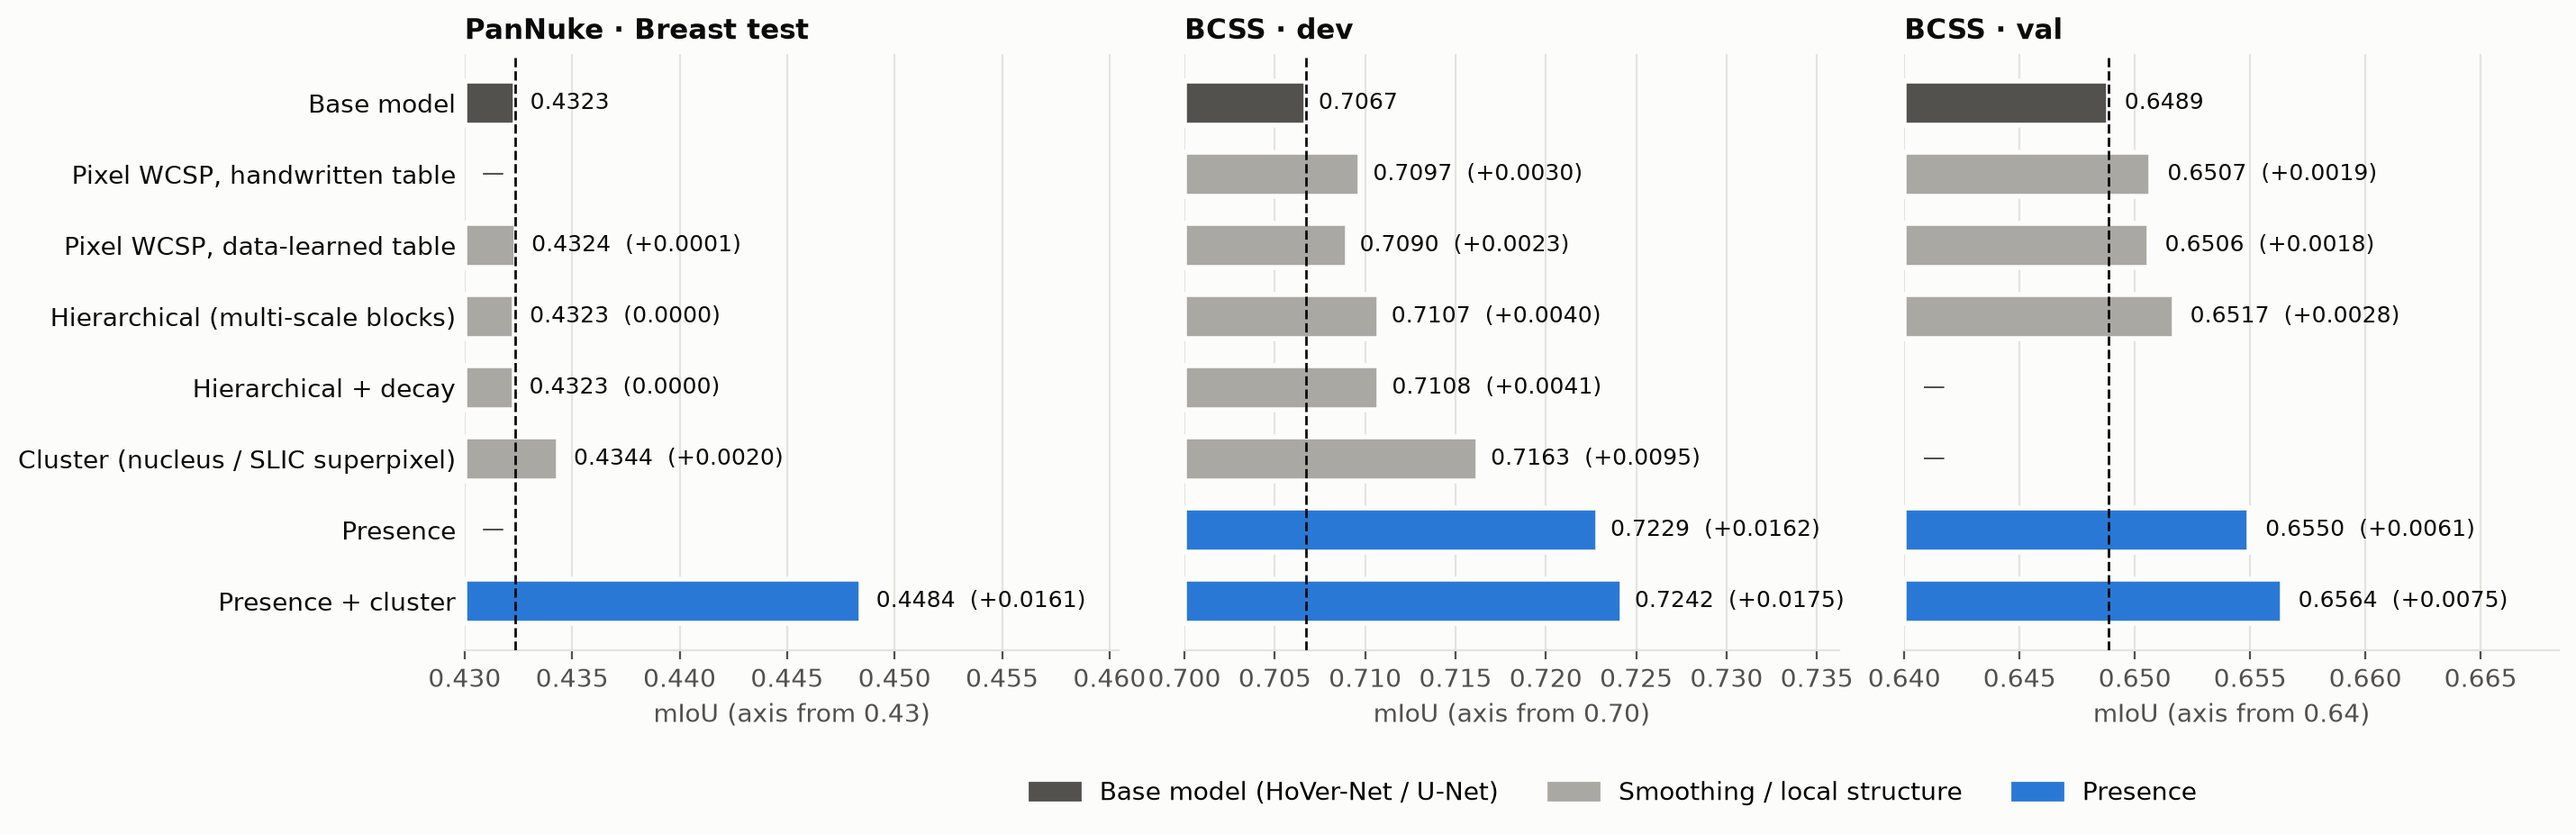
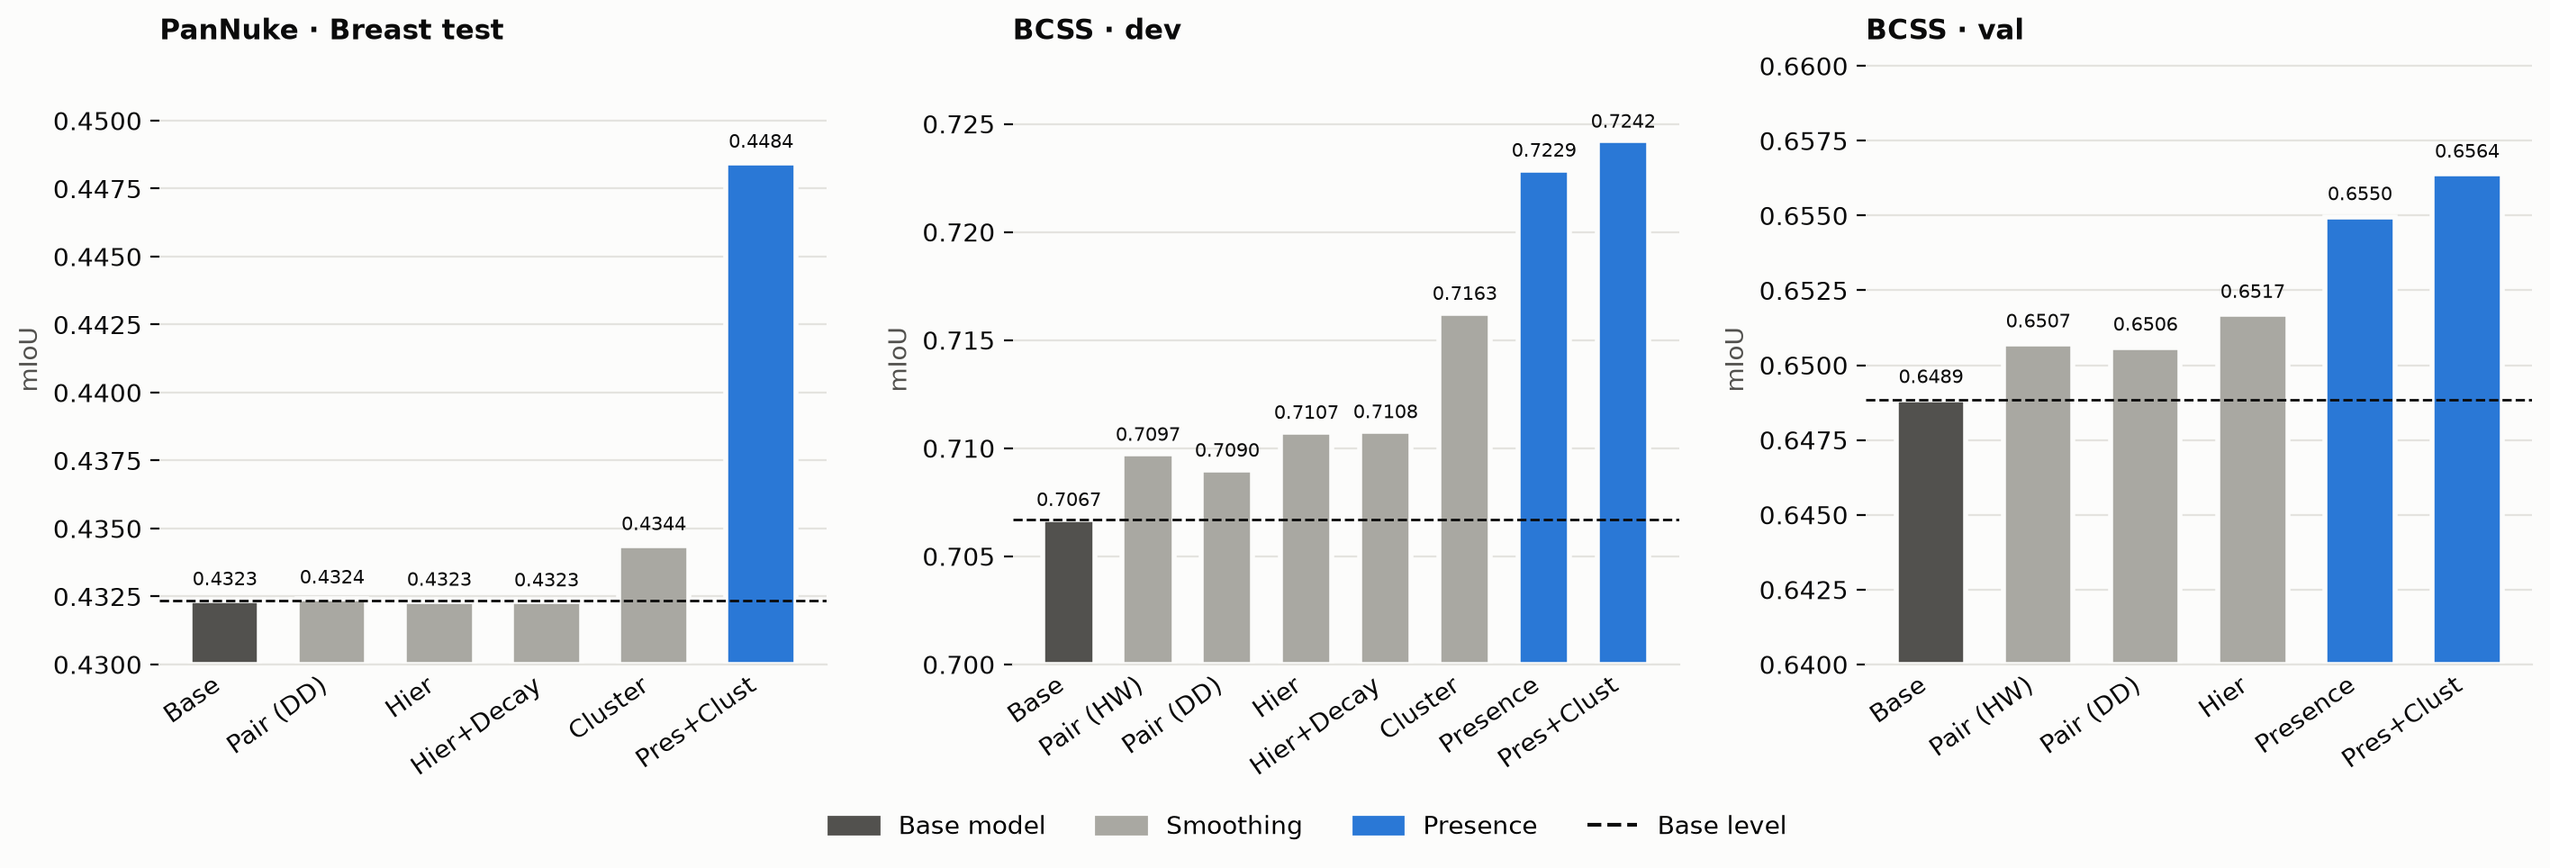
Deliverable 7: GitHub Pages version (docs/deliverable7), three-panel recap chart, short method names
Claude-Session: https://claude.ai/code/session_01CTh5Qud5ucWXzk6pK8w2Lo

diff --git a/docs/deliverable7/index.html b/docs/deliverable7/index.html
@@ -1,0 +1,117 @@
+<!DOCTYPE html>
+<html lang="en">
+<head>
+<meta charset="utf-8">
+<meta name="viewport" content="width=device-width, initial-scale=1">
+<title>Deliverable 7 · Histopathology WCSP</title>
+<style>
+  :root { --ink:#0b0b0b; --muted:#52514e; --line:#e4e3df; --bg:#fcfcfb; --accent:#2a78d6; --soft:#f3f2ee; }
+  * { box-sizing: border-box; }
+  body { margin:0; background:var(--bg); color:var(--ink);
+         font:16px/1.55 -apple-system, BlinkMacSystemFont, "Segoe UI", Helvetica, Arial, sans-serif; }
+  main { max-width: 980px; margin: 0 auto; padding: 48px 24px 80px; }
+  header { border-bottom: 1px solid var(--line); padding-bottom: 20px; margin-bottom: 8px; }
+  h1 { font-size: 34px; margin: 0 0 6px; letter-spacing: -0.01em; }
+  .sub { color: var(--muted); margin: 0; }
+  h2 { font-size: 22px; margin: 48px 0 12px; padding-top: 8px; }
+  p { margin: 10px 0; }
+  .note { color: var(--muted); font-size: 14px; }
+  .take { background: var(--soft); border-left: 3px solid var(--accent); padding: 12px 16px; border-radius: 4px; margin: 16px 0; }
+  table { border-collapse: collapse; width: 100%; margin: 14px 0; font-size: 15px; }
+  th, td { padding: 8px 12px; border-bottom: 1px solid var(--line); text-align: left; }
+  th { font-weight: 600; color: var(--muted); font-size: 13px; text-transform: uppercase; letter-spacing: .03em; }
+  td.num, th.num { text-align: right; font-variant-numeric: tabular-nums; white-space: nowrap; }
+  tr.hl td { font-weight: 600; }
+  .d { color: var(--muted); font-weight: 400; }
+  .dash { color: #a9a8a2; }
+  img { width: 100%; height: auto; margin: 12px 0; border: 1px solid var(--line); border-radius: 6px; background: #fff; }
+  .abbr { display: flex; flex-wrap: wrap; gap: 6px 18px; font-size: 14px; color: var(--muted); margin: 8px 0 0; }
+  .abbr b { color: var(--ink); }
+  nav { display: flex; gap: 18px; font-size: 14px; margin-top: 14px; }
+  nav a { color: var(--accent); text-decoration: none; }
+</style>
+</head>
+<body>
+<main>
+
+<header>
+  <h1>Deliverable 7</h1>
+  <p class="sub">November 23, 2026 · PanNuke (cell nuclei) and BCSS (tissue regions)</p>
+  <nav><a href="#recap">Recap</a><a href="#hypothesis">Hypothesis</a><a href="#prelim">Preliminary tests</a><a href="#current">Current experiments</a></nav>
+</header>
+
+<section id="recap">
+<h2>Recap of results</h2>
+<p class="note">mIoU, change vs. the base model in brackets. <span class="dash">—</span> = not run (yet).</p>
+
+<table>
+  <tr><th>Method</th><th class="num">PanNuke · Breast test</th><th class="num">BCSS · dev</th><th class="num">BCSS · val</th></tr>
+  <tr><td>Base</td><td class="num">0.4323</td><td class="num">0.7067</td><td class="num">0.6489</td></tr>
+  <tr><td>Pair (HW)</td><td class="num dash">—</td><td class="num">0.7097 <span class="d">(+0.0030)</span></td><td class="num">0.6507 <span class="d">(+0.0019)</span></td></tr>
+  <tr><td>Pair (DD)</td><td class="num">0.4324 <span class="d">(+0.0001)</span></td><td class="num">0.7090 <span class="d">(+0.0023)</span></td><td class="num">0.6506 <span class="d">(+0.0018)</span></td></tr>
+  <tr><td>Hier</td><td class="num">0.4323 <span class="d">(0.0000)</span></td><td class="num">0.7107 <span class="d">(+0.0040)</span></td><td class="num">0.6517 <span class="d">(+0.0028)</span></td></tr>
+  <tr><td>Hier+Decay</td><td class="num">0.4323 <span class="d">(0.0000)</span></td><td class="num">0.7108 <span class="d">(+0.0041)</span></td><td class="num dash">running</td></tr>
+  <tr><td>Cluster</td><td class="num">0.4344 <span class="d">(+0.0020)</span></td><td class="num">0.7163 <span class="d">(+0.0095)</span></td><td class="num dash">running</td></tr>
+  <tr class="hl"><td>Presence</td><td class="num dash">—</td><td class="num">0.7229 <span class="d">(+0.0162)</span></td><td class="num">0.6550 <span class="d">(+0.0061)</span></td></tr>
+  <tr class="hl"><td>Pres+Clust</td><td class="num">0.4484 <span class="d">(+0.0161)</span></td><td class="num">0.7242 <span class="d">(+0.0175)</span></td><td class="num">0.6564 <span class="d">(+0.0075)</span></td></tr>
+</table>
+
+<div class="abbr">
+  <span><b>Base</b> HoVer-Net / U-Net</span>
+  <span><b>Pair (HW / DD)</b> pixel WCSP, handwritten / data-derived table</span>
+  <span><b>Hier</b> multi-scale blocks</span>
+  <span><b>Hier+Decay</b> with level decay</span>
+  <span><b>Cluster</b> one label per nucleus (PanNuke) or SLIC superpixel (BCSS)</span>
+  <span><b>Presence</b> drop classes that shouldn't be in the tile</span>
+  <span><b>Pres+Clust</b> both</span>
+</div>
+
+<img src="gains_both_datasets.png" alt="mIoU per method on PanNuke Breast test, BCSS dev and BCSS val">
+
+<div class="take"><b>Takeaway:</b> smoothing (Pair, Hier, Decay) barely moves either dataset. Presence, which removes classes that shouldn't be in a tile, is the only clear gain on both.</div>
+<p class="note">Sources: PanNuke <code>experiments/pannuke_wcsp/organ_wcsp/breast/evaluation.json</code> (branch <code>organ-wcsp-breast</code>, Nov 22); BCSS run summaries (λ = 8).</p>
+</section>
+
+<section id="hypothesis">
+<h2>Hypothesis</h2>
+<p>The segmenter makes two kinds of mistakes, and smoothing fixes neither.</p>
+<table>
+  <tr><th>Mistake</th><th>Example</th><th>What would fix it</th></tr>
+  <tr><td><b>Grouping</b></td><td>One stroma region is predicted as ~10 scattered pieces</td><td>Coherent regions</td></tr>
+  <tr><td><b>Labeling</b></td><td>A whole region is called "other" when it's stroma</td><td>Knowing which classes belong in the tile</td></tr>
+</table>
+</section>
+
+<section id="prelim">
+<h2>Preliminary tests</h2>
+<p class="note">Ryan's full-resolution U-Net · 185 dev tiles · no training.</p>
+<table>
+  <tr><th>Test</th><th class="num">Result</th></tr>
+  <tr><td>Wrong pixels that are <b>grouping</b> mistakes</td><td class="num"><b>48%</b></td></tr>
+  <tr><td>Wrong pixels that are <b>labeling</b> mistakes</td><td class="num"><b>52%</b></td></tr>
+  <tr><td>Predicted pieces per true region</td><td class="num"><b>~10</b> <span class="d">(should be 1)</span></td></tr>
+  <tr><td>Presence + smoothing on this model</td><td class="num">0.6524 → <b>0.6610</b> <span class="d">(+0.0086)</span></td></tr>
+  <tr><td>Upper bound: true classes given per tile</td><td class="num dash">running</td></tr>
+  <tr><td>Upper bound: every true region coherent</td><td class="num dash">running</td></tr>
+</table>
+
+<img src="prelim_error_split.png" alt="Wrong pixels per class, split into grouping and labeling errors">
+
+<div class="take"><b>Worst classes:</b> "other" (36% wrong) and stroma (25%), both mostly <b>labeling</b> mistakes. Inflammatory and necrosis errors are mostly <b>grouping</b>.</div>
+</section>
+
+<section id="current">
+<h2>Current experiments: fixing the U-Net itself</h2>
+<p>Same training as Ryan's model; only the loss changes. Score = raw U-Net, no post-processing.</p>
+<table>
+  <tr><th>Model</th><th>Added loss</th><th>Fixes</th><th class="num">Dev mIoU</th></tr>
+  <tr><td>A (Ryan)</td><td>none</td><td class="dash">—</td><td class="num">0.6679</td></tr>
+  <tr><td>B</td><td>Region loss: pixels in the same true region should agree</td><td>Grouping</td><td class="num dash">—</td></tr>
+  <tr><td>C</td><td>Presence loss: predict which classes are in the tile</td><td>Labeling</td><td class="num dash">—</td></tr>
+</table>
+<div class="take"><b>Success</b> = B or C beats A.</div>
+</section>
+
+</main>
+</body>
+</html>

diff --git a/deliverables/figures_20261123/make_figures.py b/deliverables/figures_20261123/make_figures.py
@@ -24,54 +24,49 @@ plt.rcParams.update({
 # One row per method family, same rows for both datasets (None = not run).
 # PanNuke: organ_wcsp/breast/evaluation.json (branch organ-wcsp-breast), Breast test, 169 patches.
 # BCSS: runs/*/dev/summary.csv, dev, 185 tiles (lambda = 8): the only split with every family.
-FAMILIES = [  # (label, PanNuke Breast test, BCSS dev, BCSS val, is presence); None = not run yet
-    ("Base model", 0.432348, 0.706720, 0.648852, None),
-    ("Pixel WCSP, handwritten table", None, 0.709734, 0.650712, False),
-    ("Pixel WCSP, data-learned table", 0.432412, 0.708998, 0.650602, False),
-    ("Hierarchical (multi-scale blocks)", 0.432328, 0.710750, 0.651698, False),
-    ("Hierarchical + decay", 0.432305, 0.710783, None, False),
-    ("Cluster (nucleus / SLIC superpixel)", 0.434374, 0.716253, None, False),
+FAMILIES = [  # (short name, PanNuke Breast test, BCSS dev, BCSS val, is presence); None = not run yet
+    ("Base", 0.432348, 0.706720, 0.648852, None),
+    ("Pair (HW)", None, 0.709734, 0.650712, False),
+    ("Pair (DD)", 0.432412, 0.708998, 0.650602, False),
+    ("Hier", 0.432328, 0.710750, 0.651698, False),
+    ("Hier+Decay", 0.432305, 0.710783, None, False),
+    ("Cluster", 0.434374, 0.716253, None, False),
     ("Presence", None, 0.722877, 0.654962, True),
-    ("Presence + cluster", 0.448441, 0.724218, 0.656387, True),
+    ("Pres+Clust", 0.448441, 0.724218, 0.656387, True),
 ]
 
 
-def family_panel(ax, title, col, base):
-    """Horizontal bars on the raw mIoU scale; the axis starts just below the lowest value."""
-    labels = [f[0] for f in FAMILIES]
-    ys = list(range(len(FAMILIES)))[::-1]
-    vals = [f[col] for f in FAMILIES if f[col] is not None]
+def family_panel(ax, title, col):
+    """Vertical bars, one per method that was run, on this panel's own mIoU axis."""
+    rows = [(f[0], f[col], f[4]) for f in FAMILIES if f[col] is not None]
+    base = rows[0][1]
+    vals = [r[1] for r in rows]
     lo = round(min(vals) - 0.006, 2)
-    for y, f in zip(ys, FAMILIES):
-        v, rule = f[col], f[4]
-        if v is None:
-            ax.text(lo + 0.0008, y, "—", va="center", color=MUTED, fontsize=9)
-            continue
+    xs = range(len(rows))
+    for x, (name, v, rule) in zip(xs, rows):
         color = MUTED if rule is None else (SET_RULE if rule else LOCAL)
-        ax.barh(y, v - lo, left=lo, color=color, height=0.62, edgecolor=SURFACE, linewidth=2)
-        d = v - base
-        text = f"{v:.4f}" if rule is None else f"{v:.4f}  ({'0.0000' if abs(d) < 5e-5 else f'{d:+.4f}'})"
-        ax.text(v + 0.0007, y, text, va="center", color=INK, fontsize=9)
-    ax.axvline(base, color=INK, linewidth=1, linestyle="--", zorder=3)
-    ax.set_yticks(ys, labels)
-    ax.tick_params(axis="y", length=0)
-    ax.set_xlim(lo, max(vals) + 0.012)
-    ax.grid(axis="x", color=GRID, linewidth=0.8)
+        ax.bar(x, v - lo, bottom=lo, color=color, width=0.65, edgecolor=SURFACE, linewidth=2)
+        ax.text(x, v + 0.0004, f"{v:.4f}", ha="center", va="bottom", color=INK, fontsize=7.5)
+    ax.axhline(base, color=INK, linewidth=1, linestyle="--")
+    ax.set_xticks(list(xs), [r[0] for r in rows], rotation=35, ha="right")
+    ax.tick_params(axis="x", length=0, colors=INK)
+    ax.set_ylim(lo, max(vals) + 0.004)
+    ax.set_ylabel("mIoU")
+    ax.grid(axis="y", color=GRID, linewidth=0.8)
     ax.set_axisbelow(True)
-    ax.set_xlabel(f"mIoU (axis from {lo:.2f})")
+    ax.spines["left"].set_visible(False)
     ax.set_title(title, loc="left", color=INK, fontsize=11, fontweight="bold")
 
 
 def fig_gains():
-    fig, axes = plt.subplots(1, 3, figsize=(15, 4.3), sharey=True, gridspec_kw={"wspace": 0.1})
-    family_panel(axes[0], "PanNuke · Breast test", 1, 0.432348)
-    family_panel(axes[1], "BCSS · dev", 2, 0.706720)
-    family_panel(axes[2], "BCSS · val", 3, 0.648852)
-    for ax in axes[1:]:
-        ax.tick_params(axis="y", labelleft=False)
+    fig, axes = plt.subplots(1, 3, figsize=(17, 4.4), gridspec_kw={"wspace": 0.28})
+    family_panel(axes[0], "PanNuke · Breast test", 1)
+    family_panel(axes[1], "BCSS · dev", 2)
+    family_panel(axes[2], "BCSS · val", 3)
     handles = [plt.Rectangle((0, 0), 1, 1, color=c) for c in (MUTED, LOCAL, SET_RULE)]
-    fig.legend(handles, ["Base model (HoVer-Net / U-Net)", "Smoothing / local structure", "Presence"],
-               loc="lower center", ncol=3, frameon=False, bbox_to_anchor=(0.55, -0.12))
+    handles.append(plt.Line2D([], [], color=INK, linestyle="--"))
+    fig.legend(handles, ["Base model", "Smoothing", "Presence", "Base level"],
+               loc="lower center", ncol=4, frameon=False, bbox_to_anchor=(0.5, -0.14))
     fig.savefig(OUT / "gains_both_datasets.png", dpi=200, bbox_inches="tight")
 
 

diff --git a/deliverables/deliverable_7.md b/deliverables/deliverable_7.md
@@ -1,5 +1,7 @@
 # Deliverable 7
 
+**Web version:** https://urvib3.github.io/csci-401-capstone-histopathology/deliverable7/
+
 *November 23, 2026 · PanNuke (cell nuclei) and BCSS (tissue regions)*
 
 ---
@@ -10,14 +12,16 @@ mIoU, with the change vs. the base model in brackets. "—" = not run (yet).
 
 | Method | PanNuke · Breast test | BCSS · dev | BCSS · val |
 |---|:---:|:---:|:---:|
-| Base model (HoVer-Net / U-Net) | 0.4323 | 0.7067 | 0.6489 |
-| Pixel WCSP, handwritten table | — | 0.7097 (+0.0030) | 0.6507 (+0.0019) |
-| Pixel WCSP, data-learned table | 0.4324 (+0.0001) | 0.7090 (+0.0023) | 0.6506 (+0.0018) |
-| Hierarchical (multi-scale blocks) | 0.4323 (0.0000) | 0.7107 (+0.0040) | 0.6517 (+0.0028) |
-| Hierarchical + decay | 0.4323 (0.0000) | 0.7108 (+0.0041) | *running* |
-| Cluster (nucleus / SLIC superpixel) | 0.4344 (+0.0020) | 0.7163 (+0.0095) | *running* |
+| Base | 0.4323 | 0.7067 | 0.6489 |
+| Pair (HW) | — | 0.7097 (+0.0030) | 0.6507 (+0.0019) |
+| Pair (DD) | 0.4324 (+0.0001) | 0.7090 (+0.0023) | 0.6506 (+0.0018) |
+| Hier | 0.4323 (0.0000) | 0.7107 (+0.0040) | 0.6517 (+0.0028) |
+| Hier+Decay | 0.4323 (0.0000) | 0.7108 (+0.0041) | *running* |
+| Cluster | 0.4344 (+0.0020) | 0.7163 (+0.0095) | *running* |
 | **Presence** | — | **0.7229 (+0.0162)** | **0.6550 (+0.0061)** |
-| **Presence + cluster** | **0.4484 (+0.0161)** | **0.7242 (+0.0175)** | **0.6564 (+0.0075)** |
+| **Pres+Clust** | **0.4484 (+0.0161)** | **0.7242 (+0.0175)** | **0.6564 (+0.0075)** |
+
+**Base** HoVer-Net / U-Net · **Pair (HW / DD)** pixel WCSP, handwritten / data-derived table · **Hier** multi-scale blocks · **Hier+Decay** with level decay · **Cluster** one label per nucleus (PanNuke) or SLIC superpixel (BCSS) · **Presence** drop classes that shouldn't be in the tile · **Pres+Clust** both
 
 ![Results by method](figures_20261123/gains_both_datasets.png)
 
